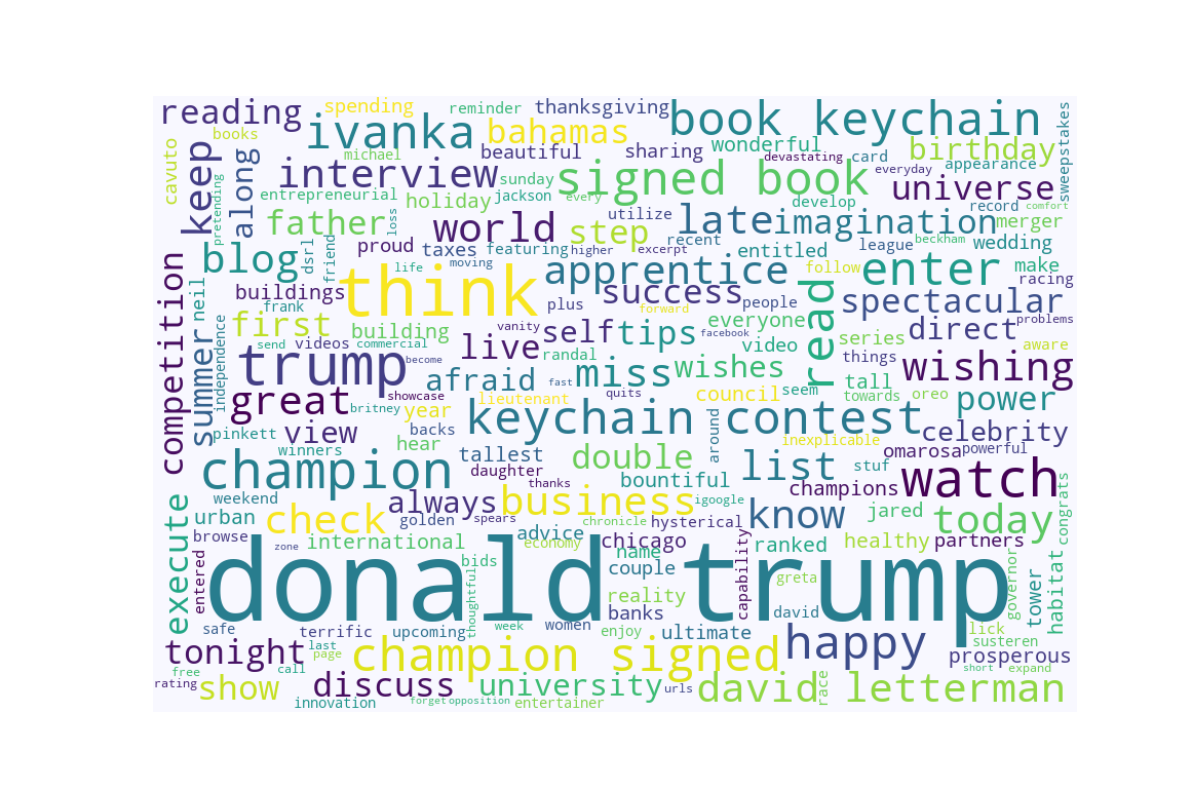
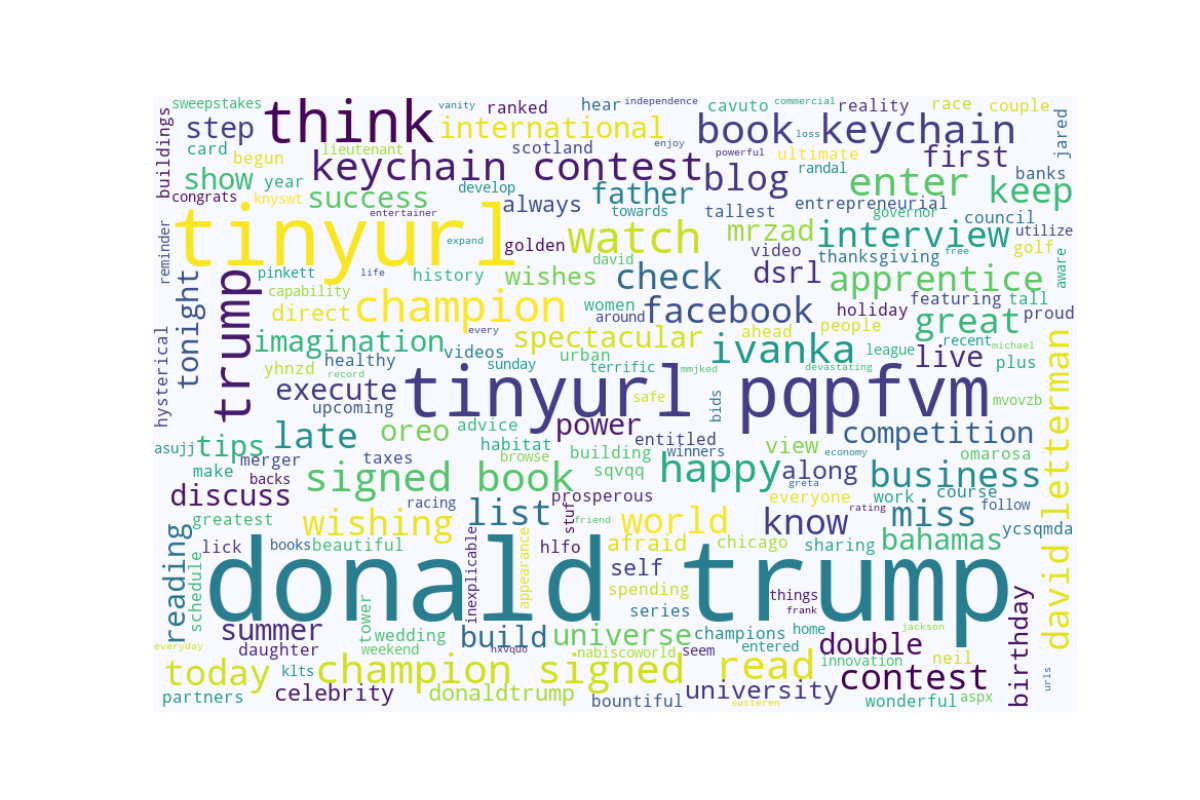
Word cloud analysis and images

Changed region(s): [[0.1233, 0.125, 0.8942, 0.9062]]

diff --git a/word_cloud.py b/word_cloud.py
@@ -1,0 +1,156 @@
+import pandas as pd
+import numpy as np
+import re
+import matplotlib.pyplot as plt
+import gensim
+from gensim.utils import simple_preprocess
+from nltk.corpus import stopwords
+from collections import Counter
+from wordcloud import WordCloud
+
+SUBJECTS = ["economy", "covid", "foreign_policy", "domestic_policy", "impeachment", "other"]
+
+import warnings
+warnings.filterwarnings("ignore", category=DeprecationWarning)
+
+
+def remove_users(tweet, pattern1, pattern2):
+    r = re.findall(pattern1, tweet)
+    for i in r:
+        tweet = re.sub(i, '', tweet)
+
+    r = re.findall(pattern2, tweet)
+    for i in r:
+        tweet = re.sub(i, '', tweet)
+    return tweet
+
+
+def remove_hashtags(tweet, pattern1, pattern2):
+    r = re.findall(pattern1, tweet)
+    for i in r:
+        tweet = re.sub(i, '', tweet)
+
+    r = re.findall(pattern2, tweet)
+    for i in r:
+        tweet = re.sub(i, '', tweet)
+    return tweet
+
+
+def remove_links(tweet):
+    tweet_no_link = re.sub(r"http\S+", "", tweet)
+    return tweet_no_link
+
+def tokenize(tweet):
+    for word in tweet:
+        yield(gensim.utils.simple_preprocess(str(word), deacc=True))  # deacc=True Removes punctuations
+
+
+def remove_stopwords(tweets):
+    stop_words = stopwords.words('english')
+    stop_words.extend(['from', 'https', 'twitter', 'twitt', 'cont' ])
+    return [[word for word in simple_preprocess(str(tweet)) if word not in stop_words] for tweet in tweets]
+
+def rejoin_words(row):
+    words = row['tokens_no_stop']
+    joined_words = (" ".join(words))
+    return joined_words
+
+
+def create_cloud(df, filename):
+    # df['no_stop_joined'] = df.apply(rejoin_words, axis=1)
+    all_words = ' '.join([text for text in df.apply(rejoin_words, axis=1)])
+
+    # Word counts - not used but could be used for d3
+    tokens = all_words.split()
+    counts = Counter(tokens)
+
+    wordcloud = WordCloud(width=900, height=600, random_state=21, max_font_size=110, background_color='ghostwhite',
+                          max_words=200, normalize_plurals=False).generate(all_words)
+
+    plt.figure(figsize=(12, 8))
+    plt.imshow(wordcloud, interpolation="bilinear")
+    plt.axis('off')
+    plt.savefig(f"./images/{filename}.png")
+    plt.show()
+
+
+if __name__ == "__main__":
+
+
+    # Read csv into dataframe
+    df = pd.read_csv('tweets.csv').dropna()
+    df_subjects = pd.read_csv('tweet_data.csv')
+
+    # Convert data types and merge dataframes
+    df['id_str'] = df['id_str'].apply(float)
+    df_subjects['id_str'] = df_subjects['id_str'].apply(float)
+    df = pd.merge(df, df_subjects, on='id_str', suffixes=("", "_y"))
+
+    # Convert datatypes, drop duplicate tweets
+    df['text'] = df['text'].apply(str)
+    df['created_at'] = df['created_at'].apply(str)
+    df.drop_duplicates(subset=['text'], keep='first', inplace=True)
+
+    # Get year column
+    df['year'] = df['created_at'].str.split(' ').str[0].str[-4:]
+
+    # Remove Twitter handles and lowercase all words
+    df['tidy_tweet'] = np.vectorize(remove_users)(df['text'], "@ [\w]*", "@[\w]*")
+    df['tidy_tweet'] = df['tidy_tweet'].str.lower()
+
+    # Remove the retweets
+    # df = df[(df['is_retweet'] == "false")]
+
+    # Remove hashtags
+    # df['tidy_tweet'] = np.vectorize(remove_hashtags)(df['tidy_tweet'], "# [\w]*", "#[\w]*")
+
+    # Remove links
+    # df['tidy_tweet'] = np.vectorize(remove_links)(df['tidy_tweet'])
+
+    # Remove punctuation, numbers, and special characters
+    df['tidy_tweet'] = df['tidy_tweet'].str.replace("[^a-zA-Z#]", " ")
+
+    # Remove short words (length 3 and below)
+    df['tidy_tweet'] = df['tidy_tweet'].apply(lambda x: ' '.join([w for w in x.split() if len(w) > 3]))
+
+    # Tokenize words and clean-up punctuations
+    df['tidy_tweet_tokens'] = list(tokenize(df['tidy_tweet']))
+
+    # Remove stopwords
+    df['tokens_no_stop'] = remove_stopwords(df['tidy_tweet_tokens'])
+
+    # Split by year
+    df_yearly_list = [pd.DataFrame(y) for x, y in df.groupby('year', as_index=False)]
+
+    # Create a word cloud for each year
+    for df_year in df_yearly_list:
+        year = df_year['year'].iloc[0]
+        create_cloud(df_year, year)
+        for subject in SUBJECTS:
+            df_current_subject = df_year[(df_year[subject] == 1)]
+            if df_current_subject.shape[0] > 5:
+                create_cloud(df_current_subject, f"{year}_{subject}")
+
+
+
+# Hashtag code
+# Top Hashtags dataframe
+# df['hashtags'] = df['tidy_tweet'].apply(lambda twt: re.findall(r"#(\w+)", twt))
+# d = Counter(df.hashtags.sum())
+# df_hashtags = pd.DataFrame([d]).T
+# df_hashtags.columns = ['freq']
+# print(df_hashtags.freq.sum())
+# df_hashtags.sort_values(by=['freq'], ascending=False, inplace=True)
+# print(df_hashtags.head(20))
+# Visualize it
+# labels = df_hashtags.head(25).index.values.tolist()
+# freq = df_hashtags['freq'].head(25).values.tolist()
+# index = np.arange(len(freq))
+# plt.figure(figsize=(12, 9))
+# plt.bar(index, freq, alpha=0.8, color='black')
+# plt.xlabel('Hashtags', fontsize=13)
+# plt.ylabel('Frequency', fontsize=13)
+# plt.xticks(index, labels, fontsize=11, rotation=90, fontweight="bold")
+# plt.title('Top 25 Hashtags of dataset', fontsize=12, fontweight="bold")
+# plt.show()
+# df = df.drop(['hashtags'], axis=1)
